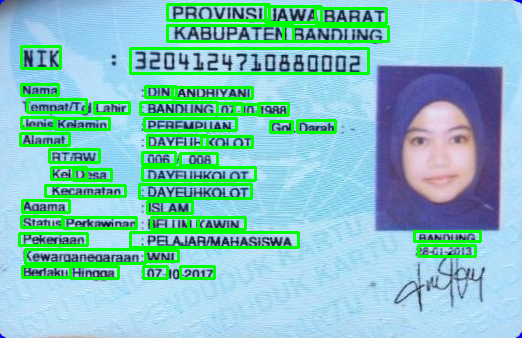
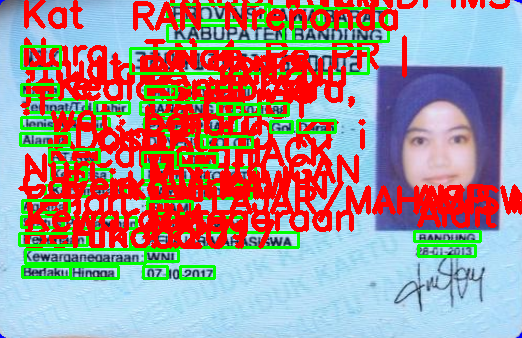
added tesseract text into the resulting image

diff --git a/main.py b/main.py
@@ -139,9 +139,6 @@ def fourPointTransform(image, pts):
     return warped
 
 def detectText(image, width, height, east_path, min_confidence, padding):
-    # the resulting region of interests
-    rois = []
-
     orig = image.copy()
     (origH, origW) = image.shape[:2]
     (newH, newW) = (args['height'], args['width'])
@@ -249,18 +246,26 @@ def detectText(image, width, height, east_path, min_confidence, padding):
         endX = min(origW, endX + dX)
         endY = min(origH, endY + dY)
 
-        rois.append(orig[startY:endY, startX:endX])
-        parseTextFromCandidateRegion(orig[startY:endY, startX:endX])
+        text = parseTextFromCandidateRegion(orig[startY:endY, startX:endX])
 
         # draw the boudning box on the image
         cv2.rectangle(orig, (startX, startY), (endX, endY), (0, 255, 0), 2)
+        cv2.putText(orig, text, (startX, startY - 20),
+                cv2.FONT_HERSHEY_SIMPLEX, 1.2, (0, 0, 255), 3)
 
     return orig
   
 def parseTextFromCandidateRegion(roi):
+    print('[INFO] loading Tesseract text parser...')
+    start = time.time()
+
     config = ('-l ind --oem 1 --psm 7')
     text = pytesseract.image_to_string(roi, config=config)
-    print(text)
+
+    end = time.time()
+    print('[INFO] text parsing took {:.6f} seconds'.format(end-start))
+
+    return text
 
 if __name__ == '__main__':
     ap = argparse.ArgumentParser()
